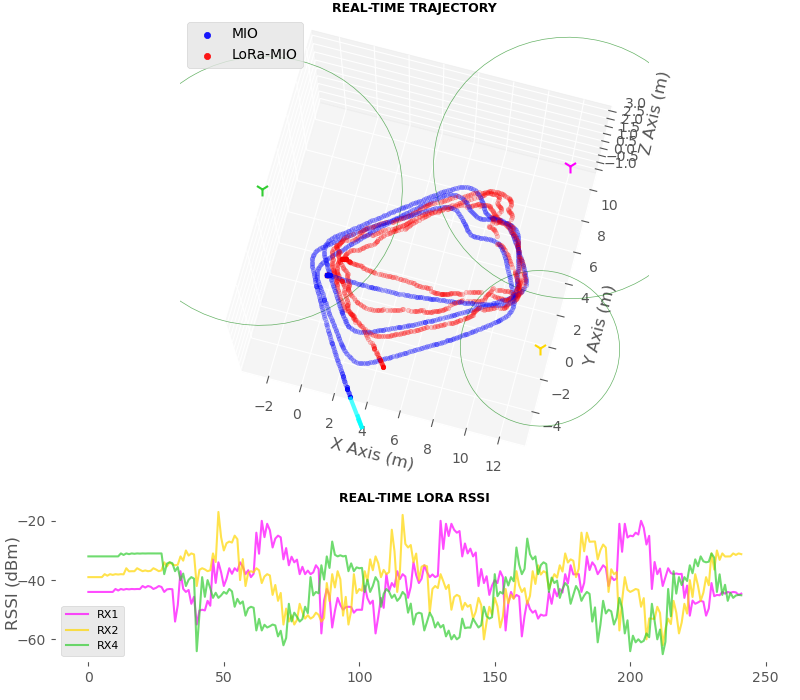
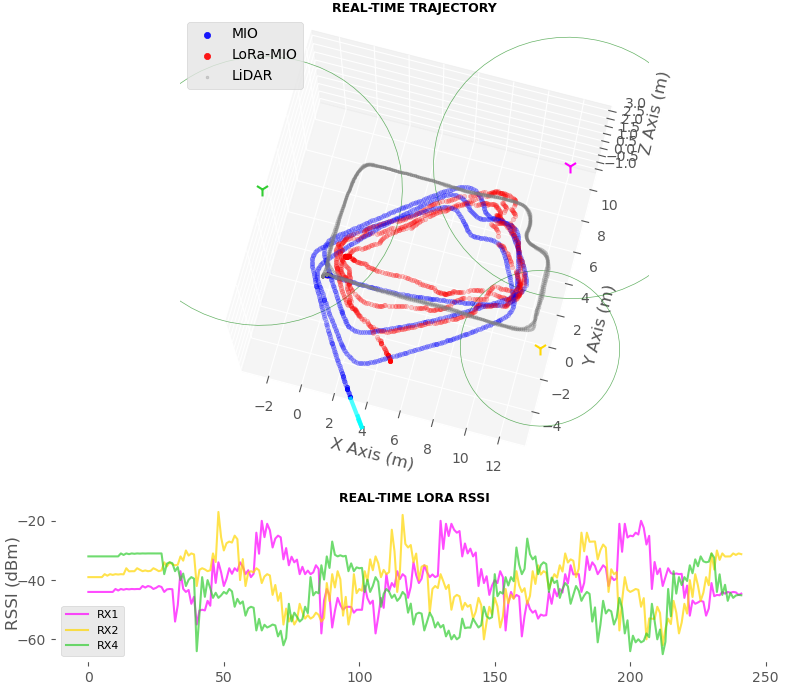
Produced fine-grained trajs for RHB; Added GT legend

Changed region(s): [[0.4062, 0.21, 0.6875, 0.54], [0.2812, 0.09, 0.3438, 0.12]]

diff --git a/EKF.py b/EKF.py
@@ -23,7 +23,7 @@ import matplotlib
 
 
 # LoRa RX Coordinates in order of Pi-IP: 93, 94, 95, 96, 97
-'''
+
 R1 = np.array([[-2., 10., 0.],
                [12., 10., 0.],
                [13., -1., 0.],
@@ -37,7 +37,7 @@ R1 = np.array([[10., 2., 0.],
                [-1., -13., 0.],
                [-1.5, -5, 0.],
                [4., 5., 0.]])
-
+'''
 '''
 R1 = np.array([[0., 0., 0.],
                [15., 5., 0.],
@@ -375,6 +375,8 @@ class EKF_Fusion():
         self.ismdn = ismdn
 
         self.gt_path = self.get_gt_path()
+        self.gt_x = [item[0] for item in self.gt_path]
+        self.gt_y = [item[1] for item in self.gt_path]
         # Current Pose handler
         self.pred_transform_t_1 = np.array(
         [[1., 0, 0, 0],
@@ -731,8 +733,8 @@ class EKF_Fusion():
         # Not Attempting to Visual EKF Updated Orientation
         #self.handle_arrw_ekf = self.ax21.quiver([self.my_kf.x[0, 0]], [self.my_kf.x[1, 0]], [self.my_kf.x[2, 0]], self.U_ekf, self.V_ekf, self.W_ekf, color='r', length=1., alpha=.7)
         # Manually Equal Axis and Limit
-        #self.ax21.auto_scale_xyz([-2.5, 12.5], [-5, 10], [-1, 3])
-        self.ax21.auto_scale_xyz([-2.5, 12.5], [-12.5, 2.5], [-1, 3])
+        self.ax21.auto_scale_xyz([-2.5, 12.5], [-5, 10], [-1, 3])
+        #self.ax21.auto_scale_xyz([-2.5, 12.5], [-12.5, 2.5], [-1, 3])
         #self.ax21.auto_scale_xyz([-5, 15], [-15, 5], [-1, 3])
 
         # Plot Range
@@ -810,12 +812,10 @@ class EKF_Fusion():
         self.handle_scat = self.ax21.scatter(x, y, z, s=mark_size, color='b', marker='o', alpha=.9, label='MIO')
         self.handle_arrw = self.ax21.quiver(x, y, z, u, v, w, color='b', length=2., arrow_length_ratio=0.3, linewidths=3., alpha=.7)
         self.handle_scat_ekf = self.ax21.scatter(X, Y, Z, s=mark_size, color='r', marker='o', alpha=.9, label='LoRa-MIO')
-        self.ax21.legend(loc='upper left')
 
         # Plot GT path
-        gt_x = [item[0] for item in self.gt_path]
-        gt_y = [item[1] for item in self.gt_path]
-        self.ax21.scatter(gt_x, gt_y, 0, s=3, alpha=.4, color='grey')
+        self.ax21.scatter(self.gt_x, self.gt_y, 0, s=4, alpha=.3, color='grey', label='LiDAR')
+        self.ax21.legend(loc='upper left')
 
         # Show RXs
         for anchor_idx in self.anchorLst:
@@ -841,9 +841,9 @@ class EKF_Fusion():
 
 
     def get_gt_path(self, DirDate='2021-03-24-15-28-40'):
-        # DirDate = '2021-03-24-15-28-40'
-        # DirDate = '2021-03-24-15-45-47'
-        DirDate = '2021-03-24-16-06-10'
+        #DirDate = '2021-03-24-15-28-40'
+        DirDate = '2021-03-24-15-45-47'
+        #DirDate = '2021-03-24-16-06-10'
         filename = '_slash_aft_mapped_to_init.csv'
         filePath = join('TEST', 'test0324', DirDate, filename)
 

diff --git a/ReplayModalities.py b/ReplayModalities.py
@@ -77,10 +77,10 @@ class EKF_OriginFusion(EKF_Origin):
 
 def main():
     # Specify StaticIP of Anchors that participate in computation
-    RxIP_lst = ['94', '96', '97']
+    RxIP_lst = ['94', '95', '97']
     RxLst = [int(idx) - 93 for idx in RxIP_lst]
 
-    ekf = EKF_OriginFusion(anchor=len(RxIP_lst), anchorLst=RxLst, ismdn=False, dense=False)
+    ekf = EKF_OriginFusion(anchor=len(RxIP_lst), anchorLst=RxLst, ismdn=False, dense=True)
 
     for filename in os.listdir('TEST'):
         if filename.endswith('.txt'):
@@ -116,12 +116,13 @@ def main():
                 recv_idx += 1
                 #print(ekf.xs)
 
-                #if recv_idx > 105:
-                #    break
+                if recv_idx > 120:
+                    break
 
 
             ekf.fig2.savefig("replay_ekf.png")
 
+            print("Path Length = %d; GT Length = %d" % (len(ekf.path_dense), len(ekf.gt_path)))
             max_delay = abs(len(ekf.path_dense) - len(ekf.gt_path))
 
             path_lora = [[item[0, 0], item[1, 0]] for item in ekf.xs]

diff --git a/README.md b/README.md
@@ -6,19 +6,23 @@ Replay data reception and Visualise path in a pack of 10 Odometry outputs by
 python3 rx_lora.py LST 10
 ```
 
+We investigated localisation performance in the Oxford building scenario as below. Red triangles are deployed LoRa RX nodes. We mainly traversed the square-shaped corridors and the middle room 209. LiDAR provided cm-magnitude of accuracy which is regarded as ground-truth path marked in grey. Extended Kalman Filter (EKF) and Particle Filters (PF) are utilized to conduct location fusion.
+
+![rhb](https://github.com/zdai257/LoRaRX/blob/main/Trajectory/rhb_RXs.png)
+
 ### Extended Kalman Filter
 
 Three-round right-hand search:
 
-![left2_fine](https://github.com/zdai257/LoRaRX/blob/main/Trajectory/demo0324Left3.png)
+![left3](https://github.com/zdai257/LoRaRX/blob/main/Trajectory/demo0324Left3.png)
 
 Two-round right-hand search entering Vicon room:
 
-![left3_fine](https://github.com/zdai257/LoRaRX/blob/main/Trajectory/demo0324LeftVicon2.png)
+![leftvicon2](https://github.com/zdai257/LoRaRX/blob/main/Trajectory/demo0324LeftVicon2.png)
 
 Two-round left-hand search entering Vicon room:
 
-![left3_fine](https://github.com/zdai257/LoRaRX/blob/main/Trajectory/demo0324RightVicon2.png)
+![rightvicon2](https://github.com/zdai257/LoRaRX/blob/main/Trajectory/demo0324RightVicon2.png)
 
 ### SIR Particle Filter
 
